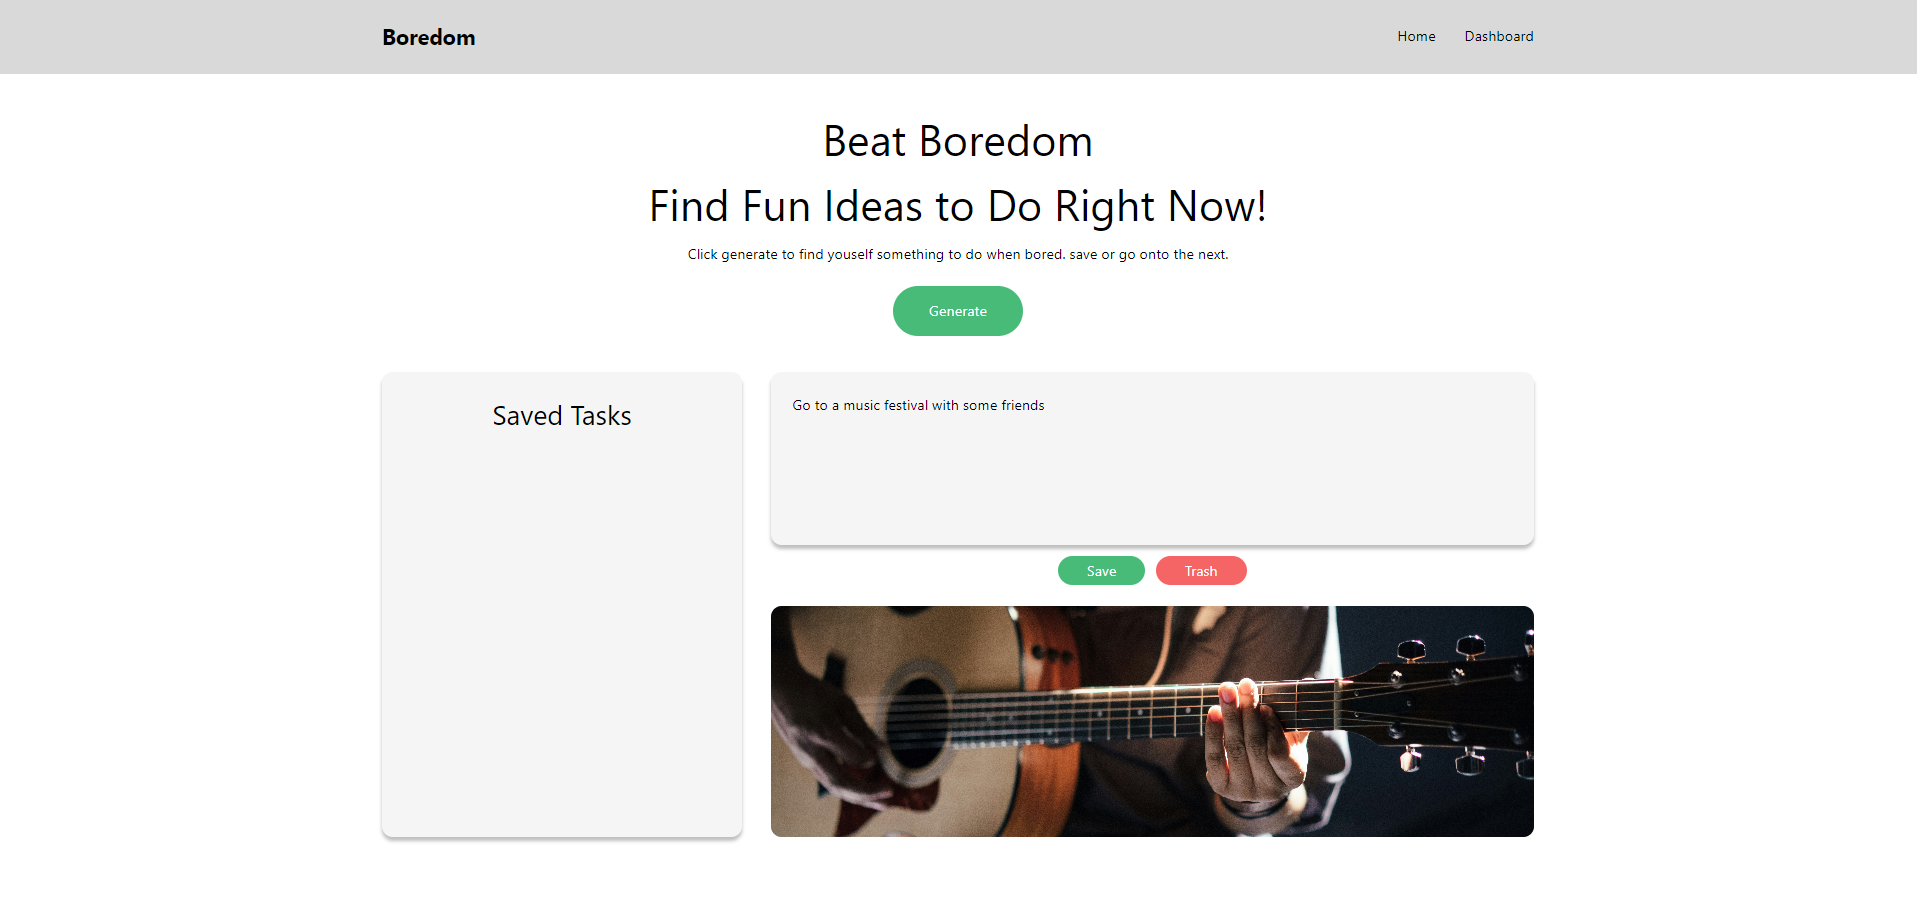
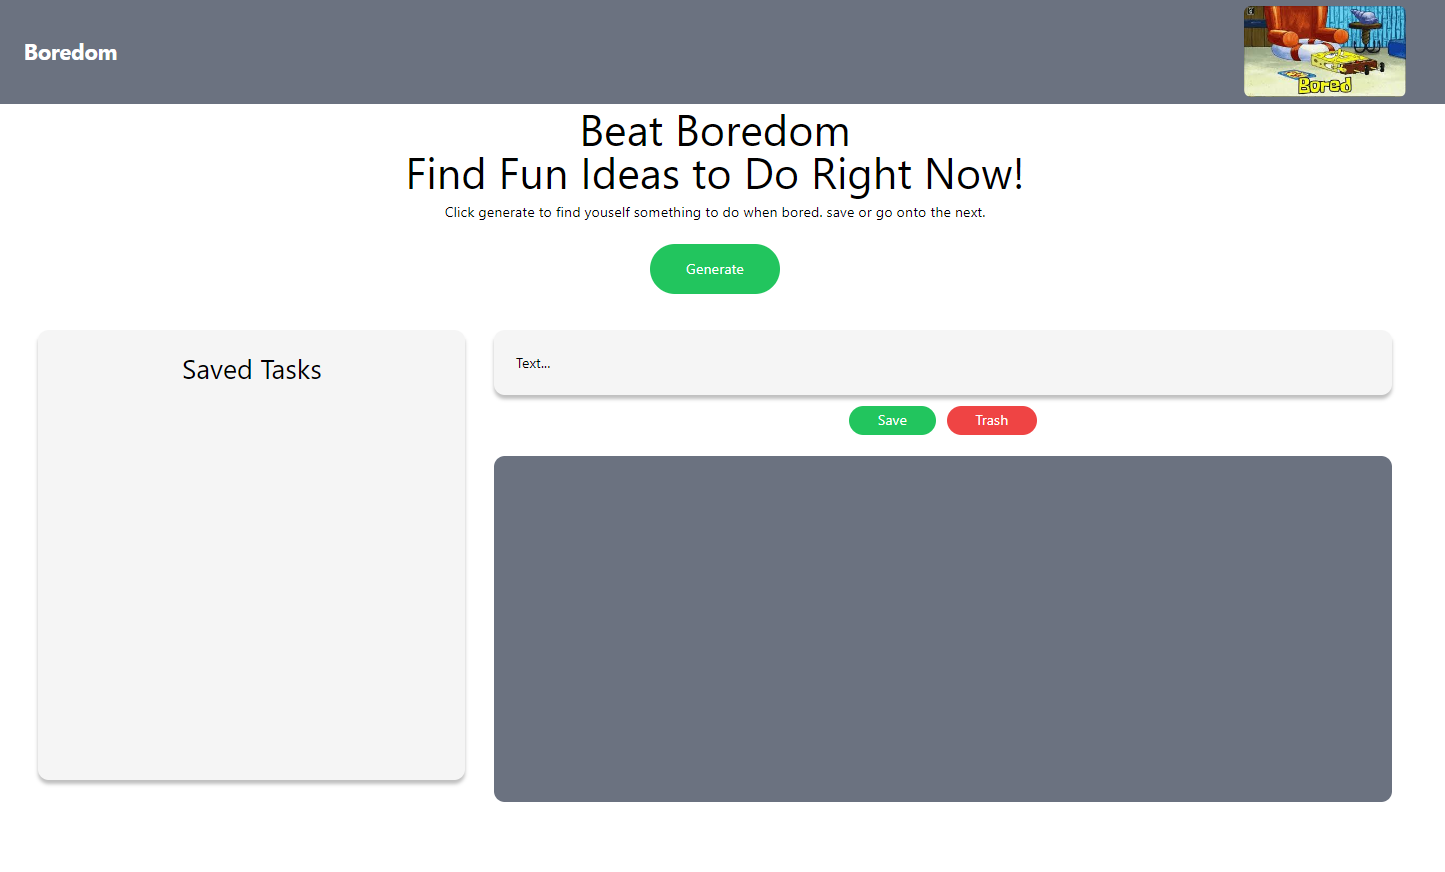
screenshots in readme update

diff --git a/README.md b/README.md
@@ -2,13 +2,6 @@
 
 ## Description
 
-Provide a short description explaining the what, why, and how of your project. Use the following questions as a guide:
-
-- What was your motivation?
-- Why did you build this project? (Note: the answer is not "Because it was a homework assignment.")
-- What problem does it solve?
-- What did you learn?
-
 Our website is a tool used to demloish boredom! We've all had days where we have free time but cant think of anything fun or exciting to do with that time, well say goodbye to those times! This website will solve that problem with the simple clcik of a button, once the button is clicked you get a random activity and a image correlating to that activity, if the activity is spmething you like but may not want to commit to right away, then you can just save it for later! If the activty just doesn't tickle your fancy, then you can just trash it and generate a new one with another simple click of a button! Throughout this activity as a group we learned how to build a site through communicating through one another and helping eachother when stumped on the next step we needed to take, we also gained a better understanding of using API's getting 2 different API's to work properly with each other.
 
 ## Usage
